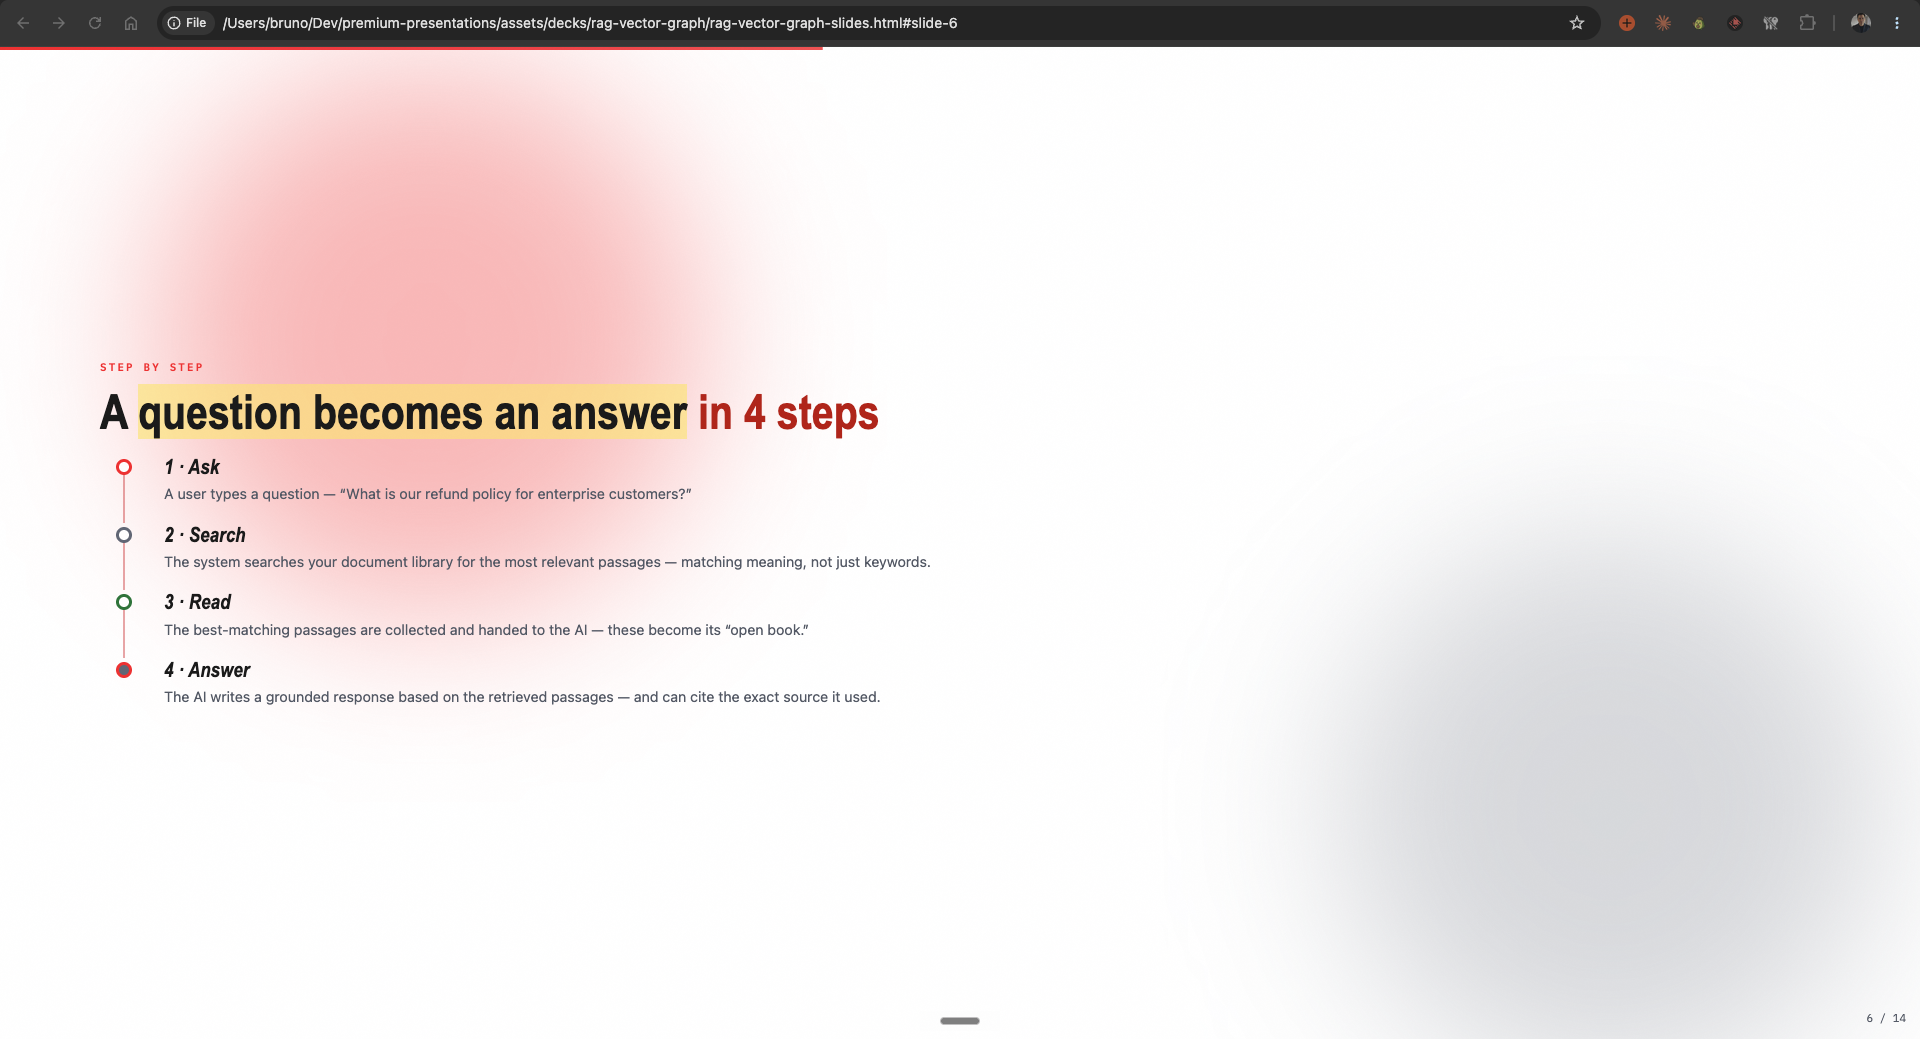
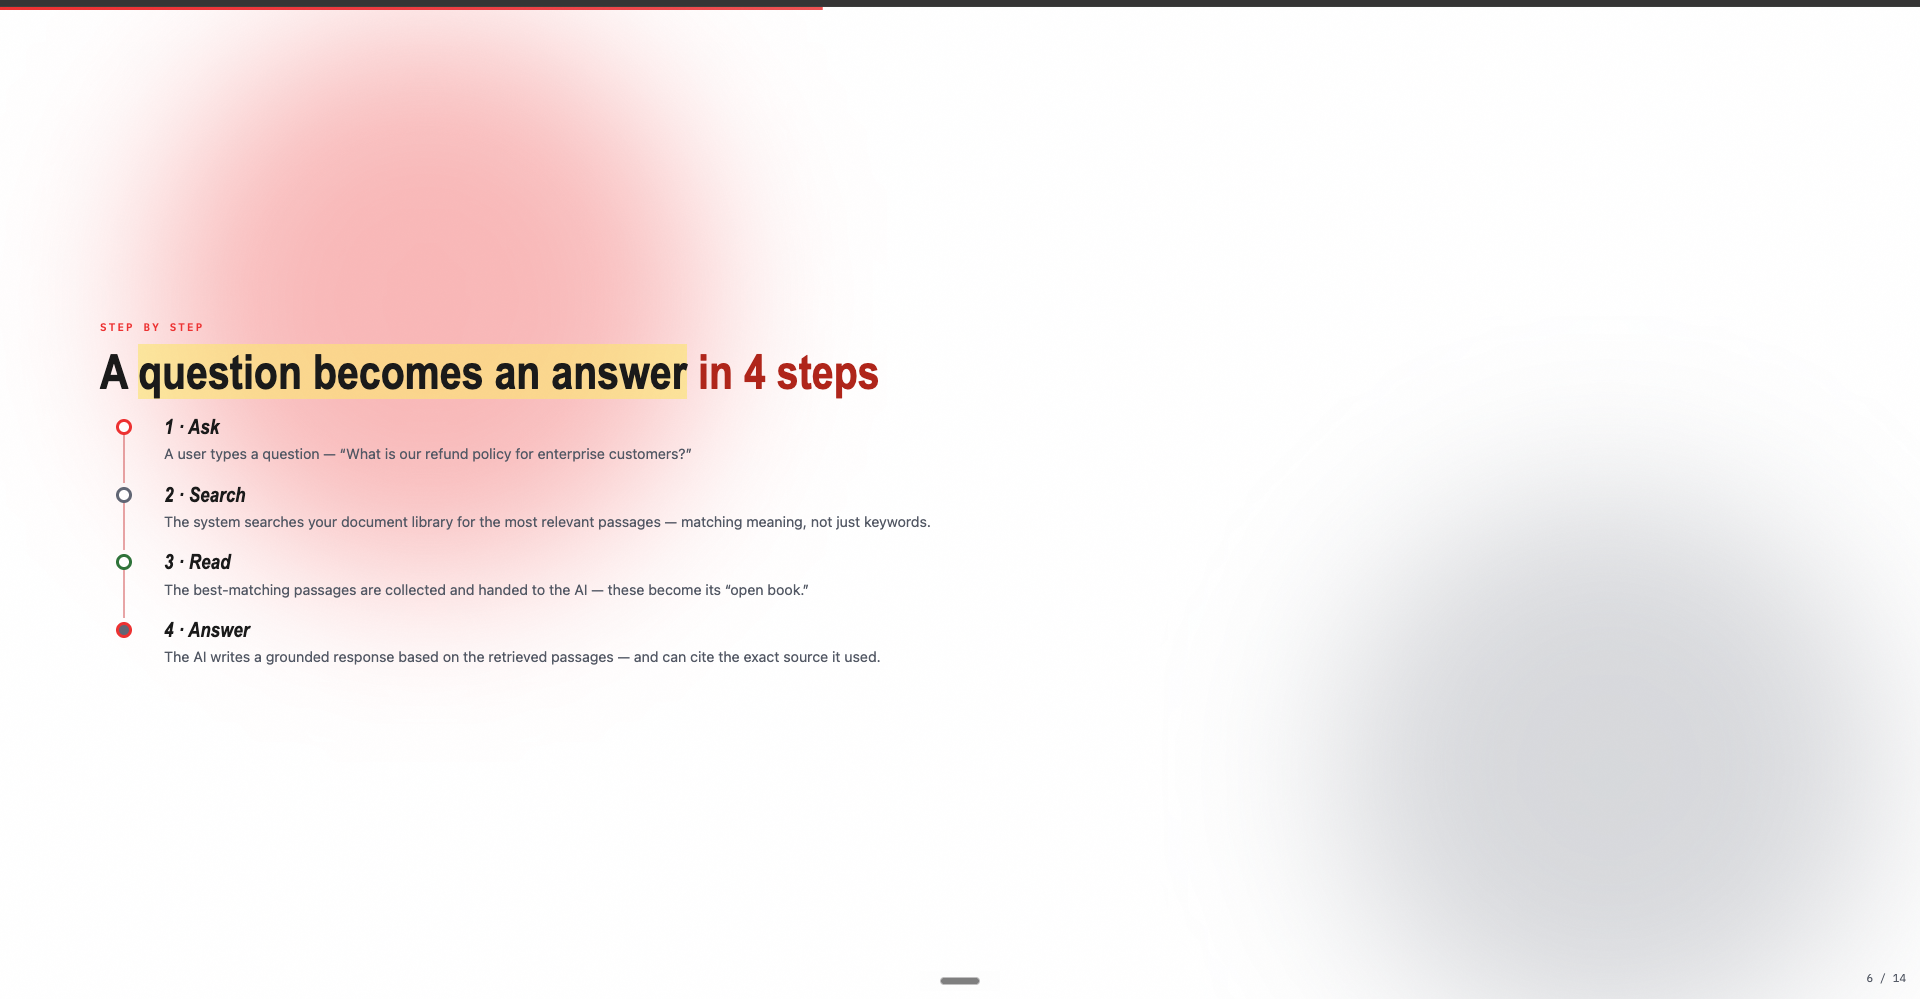
docs: replace slide screenshot, clarify timer is configurable

Changed region(s): [[0.0312, 0.3413, 0.4688, 0.6827], [0.0, 0.0, 1.0, 0.0621]]

diff --git a/README.md b/README.md
@@ -15,7 +15,7 @@ This repository is the skill package. `SKILL.md` is the agent entry point;
 
 ![Content slide](docs/screenshot-slide.png)
 
-**Presenter view** — Dual-pane popup with current/next slide preview, expanded speaker notes, and 30-min timer:
+**Presenter view** — Dual-pane popup with current/next slide preview, expanded speaker notes, and a configurable countdown timer (set any duration from the tool panel, or define a default in deck settings):
 
 ![Presenter view](docs/screenshot-presenter.png)
 